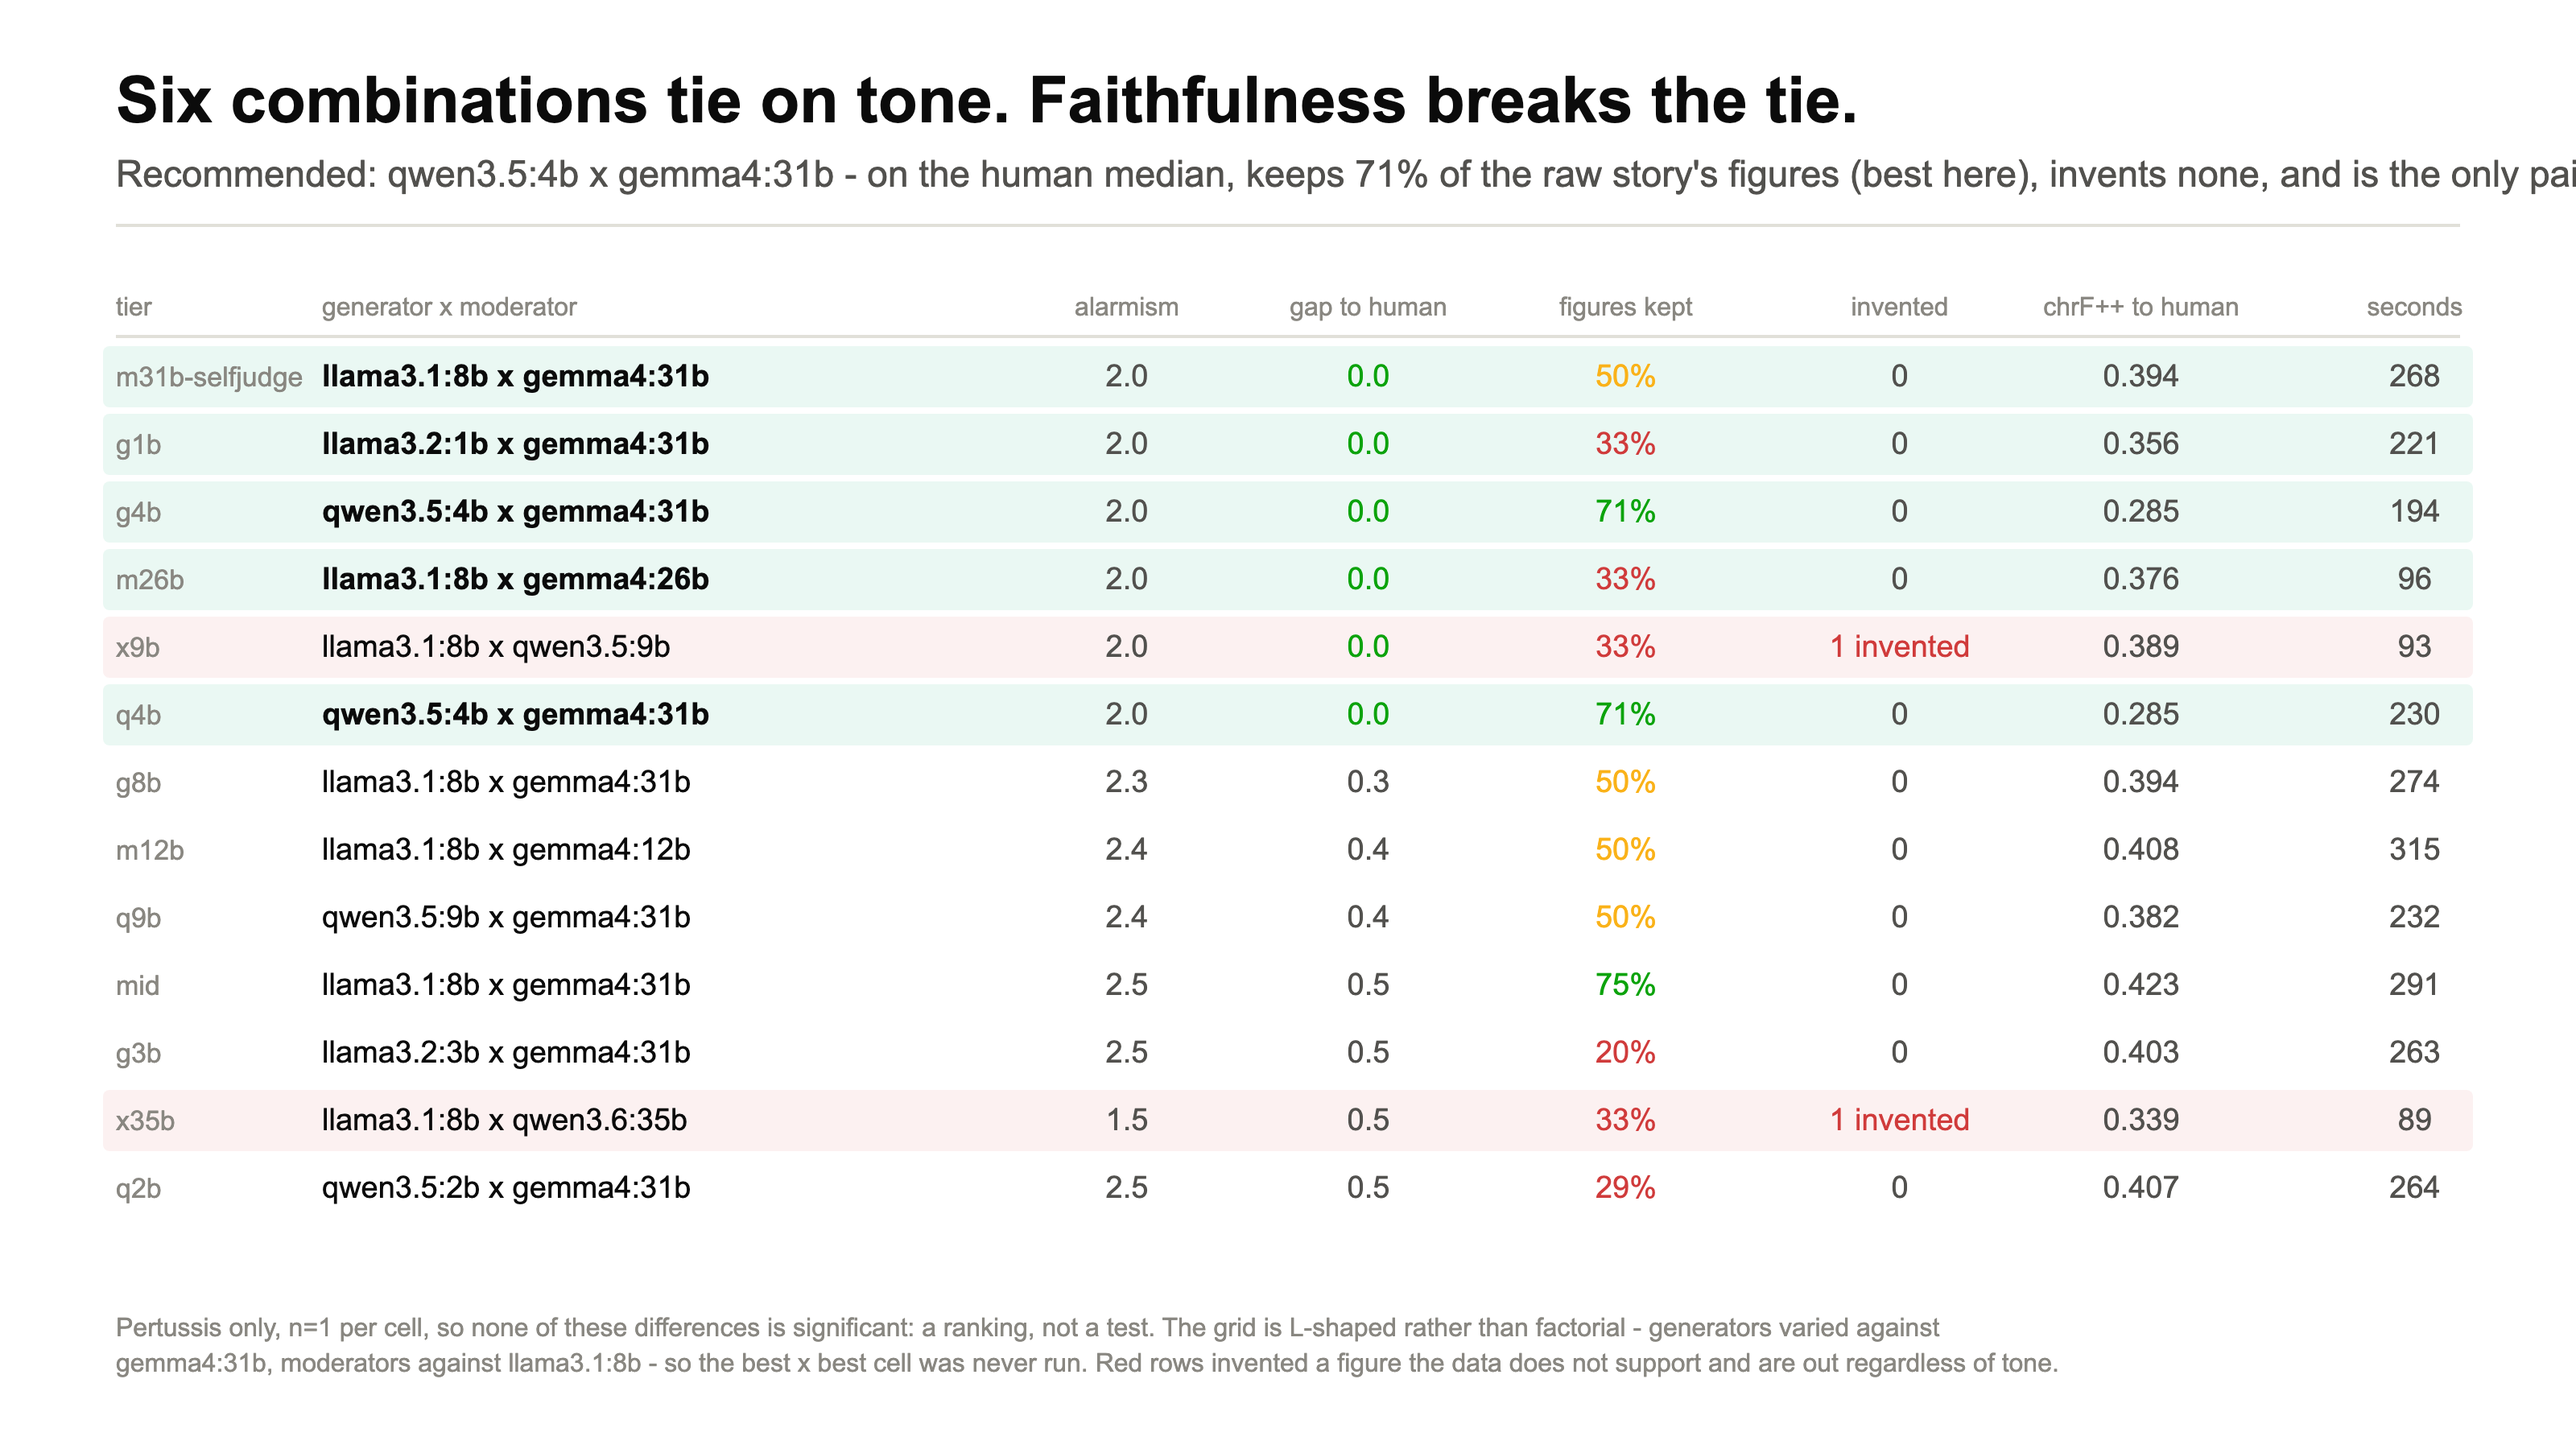
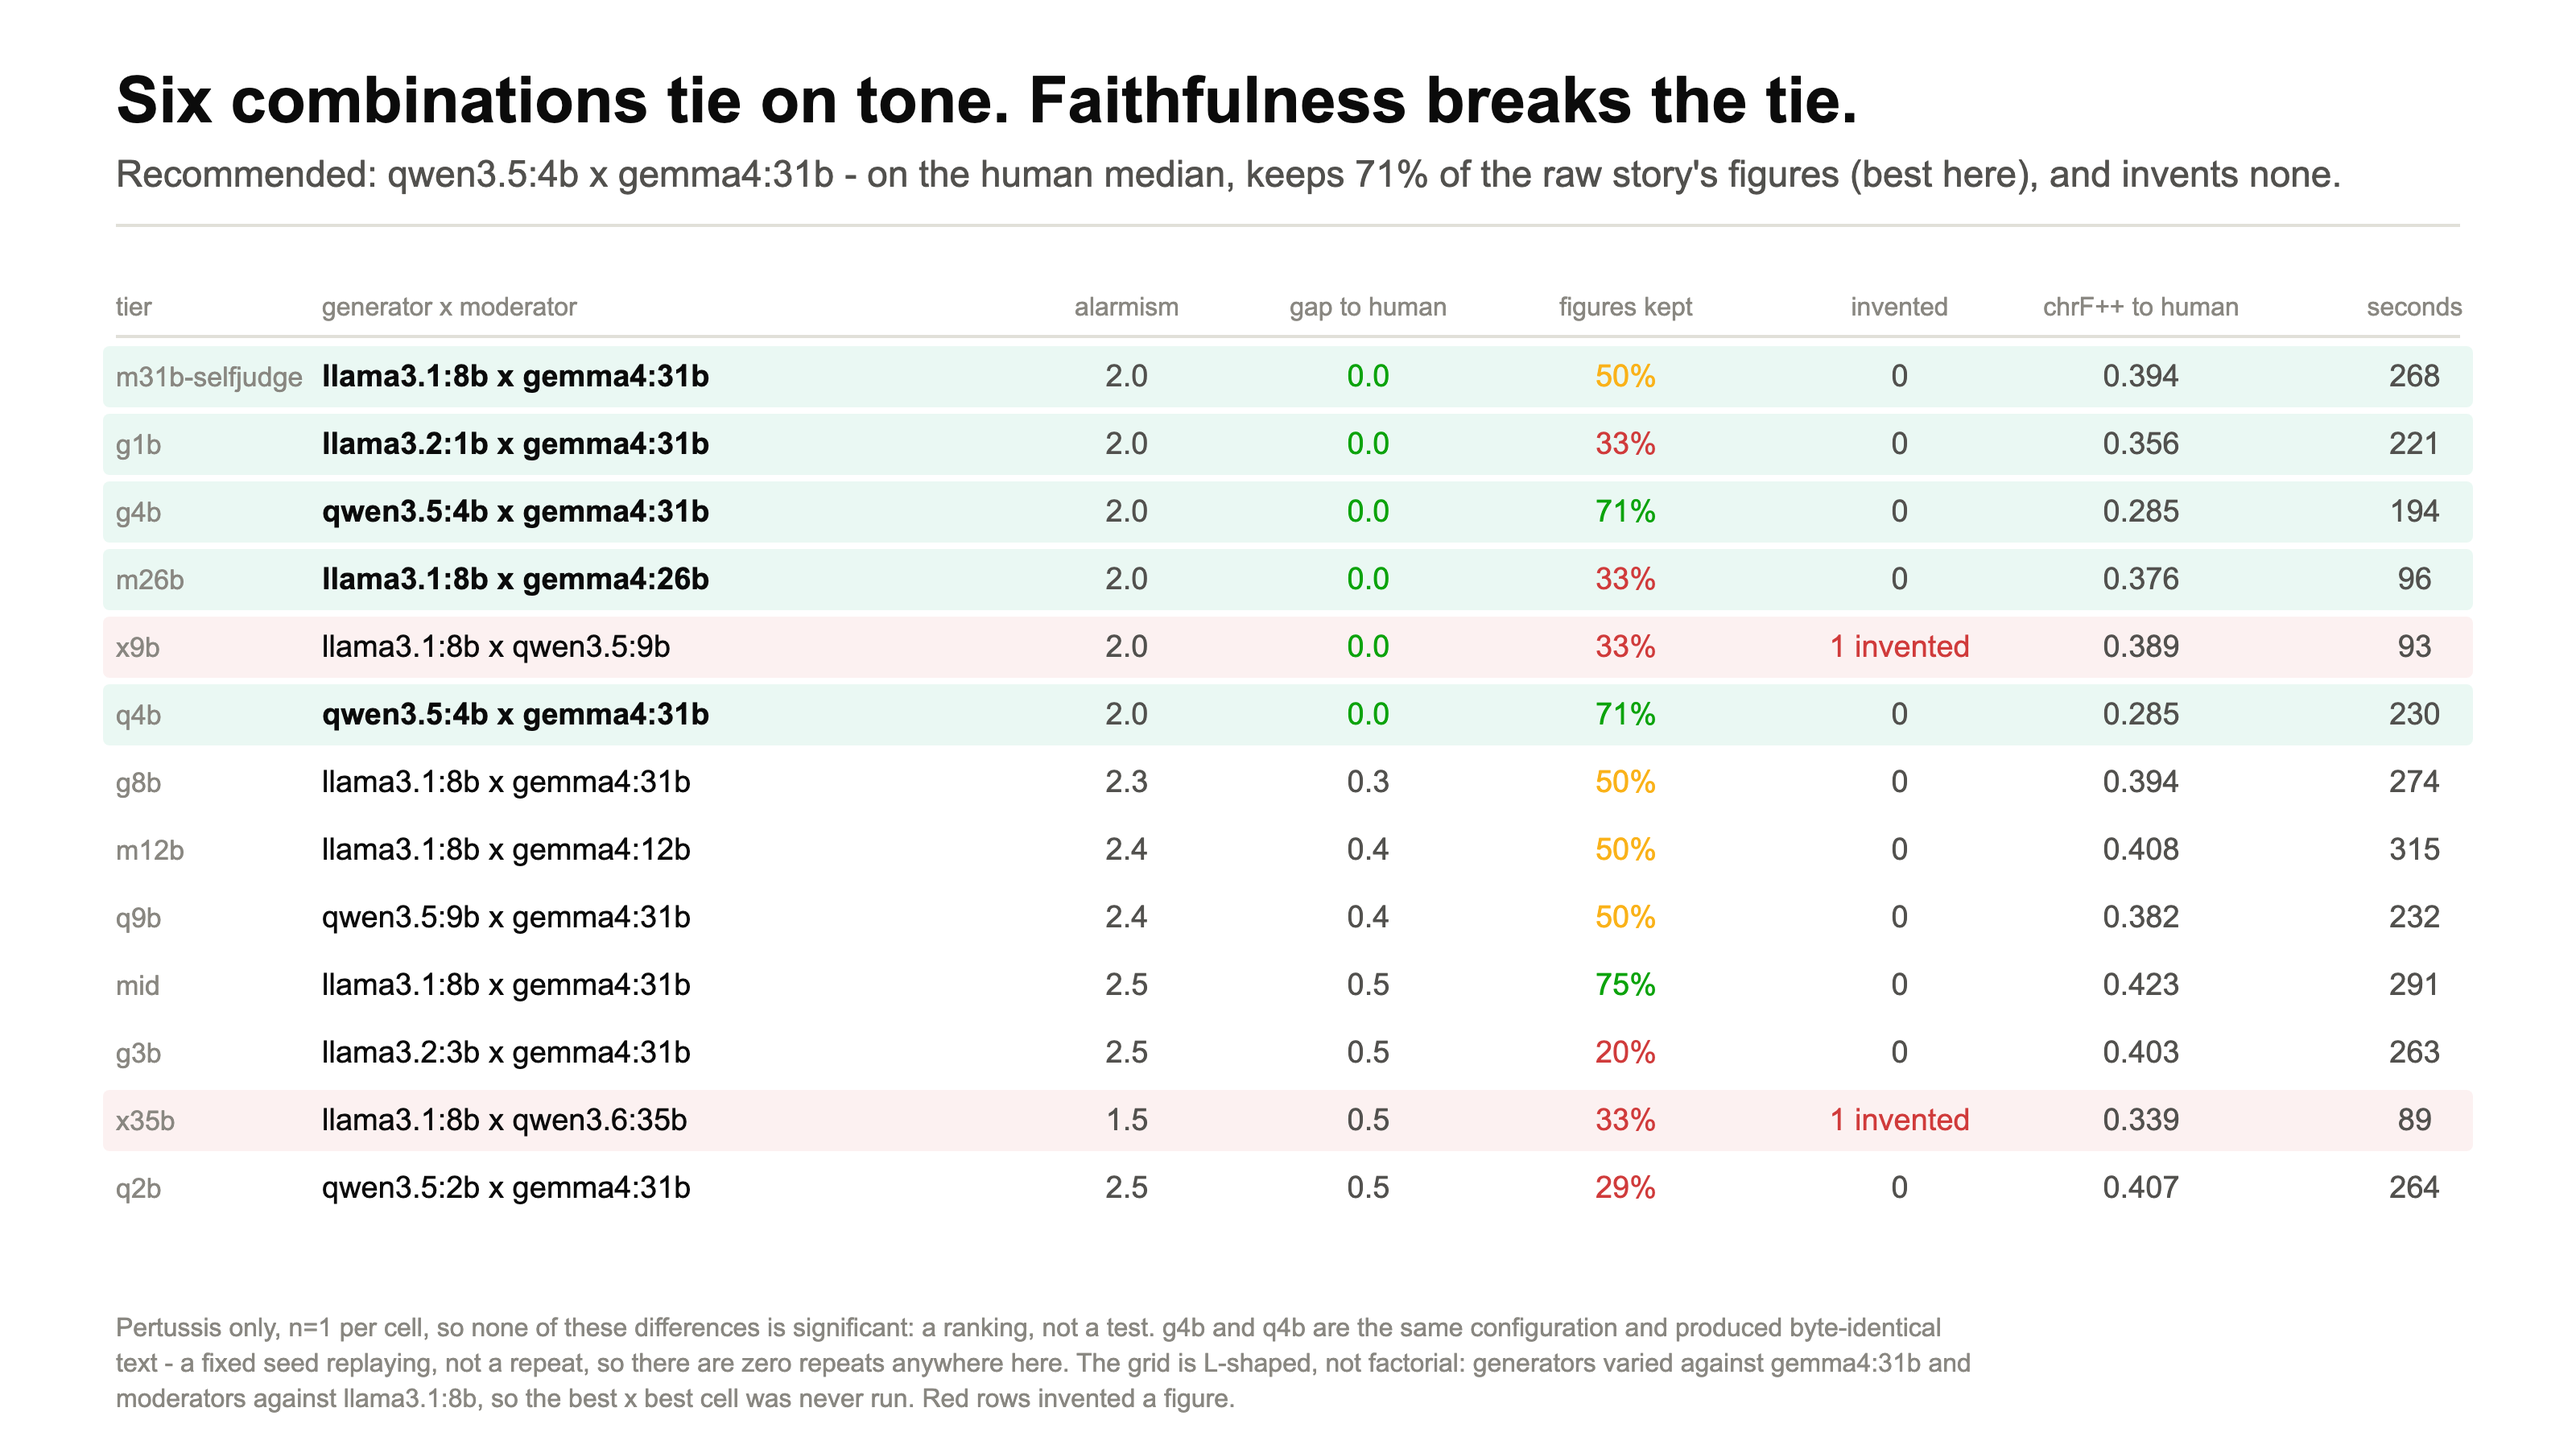
fix: g4b and q4b are the same run, not a repeat
Both tiers define qwen3.5:4b x gemma4:31b at the same seed and produced
byte-identical text (raw_sha=3e29e7e9983c). The ranking presented that as the
one configuration run twice and reproduced, which read as evidence the result
is stable. It is evidence of something else entirely: the pipeline replays
deterministically under a fixed seed.

So there are zero repeats in the table and n=1 is unqualified. The
recommendation stands on tone and retention, which is where it should have
stood; the reproducibility line is removed from fig10 and the caveat now says
plainly that no cell was ever resampled.

Changed region(s): [[0.0312, 0.9022, 0.7812, 0.9956], [0.8125, 0.0933, 1.0, 0.1244]]

diff --git a/presentation/figures/make_figures_human.py b/presentation/figures/make_figures_human.py
@@ -151,13 +151,13 @@ def fig10():
     return frame(
         "Six combinations tie on tone. Faithfulness breaks the tie.",
         "Recommended: qwen3.5:4b x gemma4:31b - on the human median, keeps 71% of the raw "
-        "story's figures (best here), invents none, and is the only pairing run twice "
-        "(g4b, q4b) that reproduced.",
+        "story's figures (best here), and invents none.",
         "\n".join(b),
         "Pertussis only, n=1 per cell, so none of these differences is significant: a ranking, "
-        "not a test. The grid is L-shaped rather than factorial - generators varied against "
-        "gemma4:31b, moderators against llama3.1:8b - so the best x best cell was never run. "
-        "Red rows invented a figure the data does not support and are out regardless of tone.",
+        "not a test. g4b and q4b are the same configuration and produced byte-identical text - "
+        "a fixed seed replaying, not a repeat, so there are zero repeats anywhere here. The grid "
+        "is L-shaped, not factorial: generators varied against gemma4:31b and moderators against "
+        "llama3.1:8b, so the best x best cell was never run. Red rows invented a figure.",
     )
 
 
